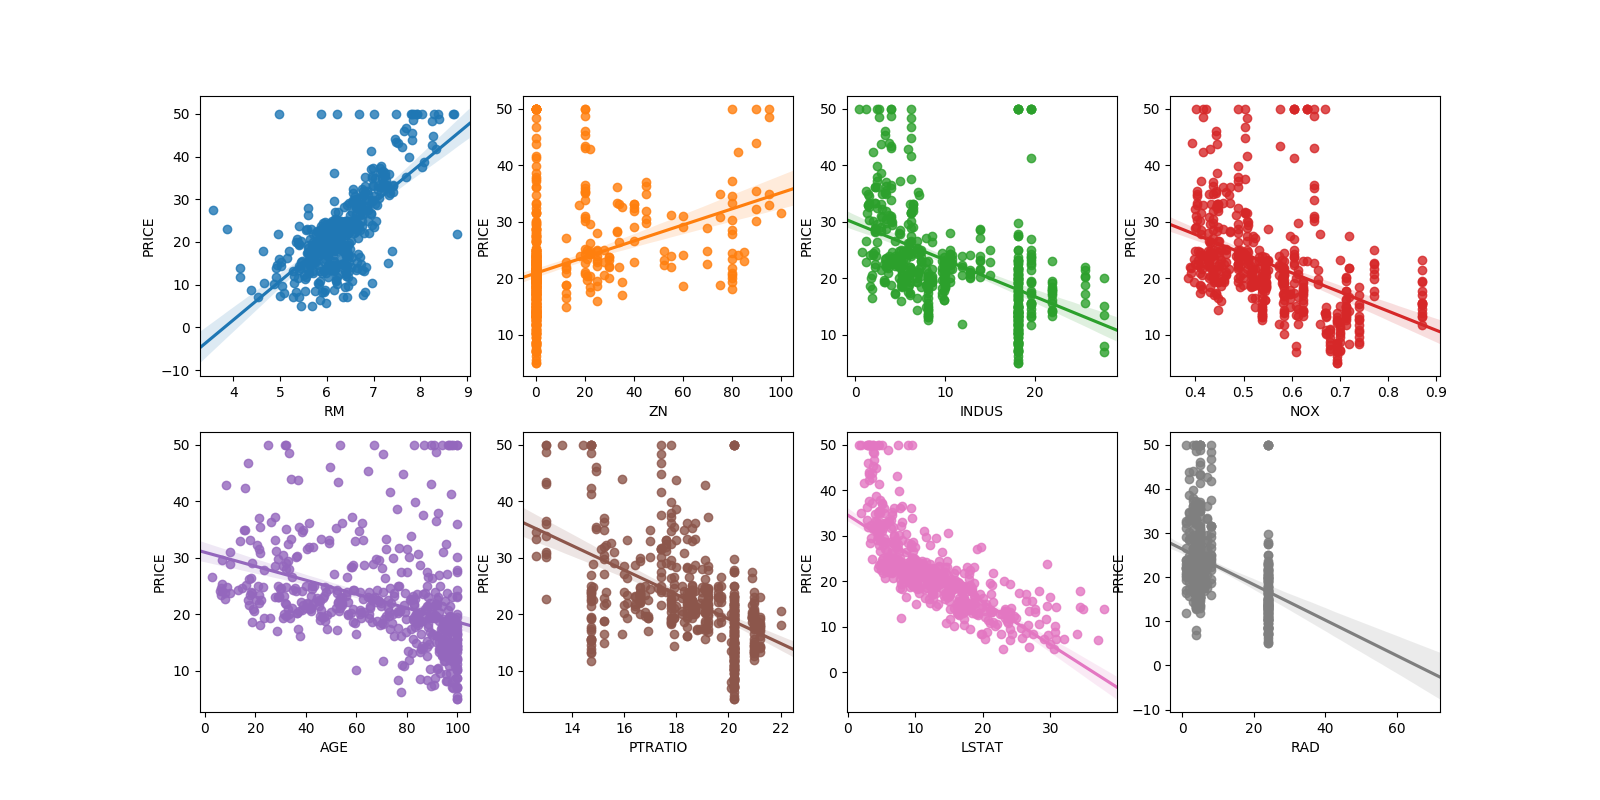
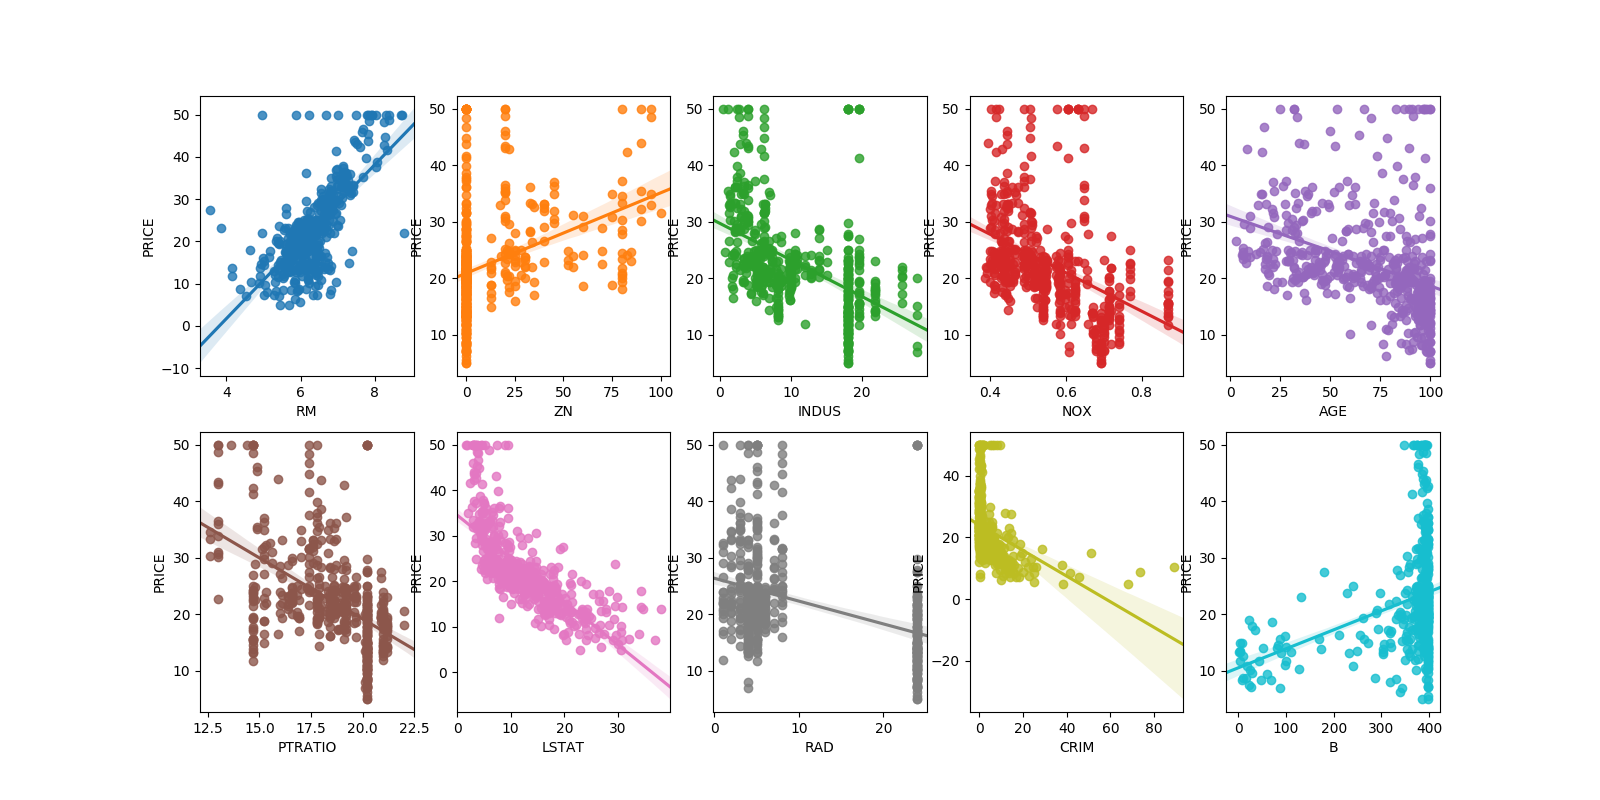
boston house price prediction raw code

diff --git a/raw_python_codes/Session2/BostonHousePricePrediction.py b/raw_python_codes/Session2/BostonHousePricePrediction.py
@@ -1,27 +1,13 @@
 """
-회귀는 여러 요인들과 특정 종속 변수 간의 관계를 예측하는 것으로써, 이를 통해 주가 예측 등 여러 예측 과제를 수행할 수 있습니다.
+Regression is basically a process which predicts the relationship between x and y based on features.
+This time we are going to practice Linear Regression with Boston House Price Data that are already embedded in scikit-learn datasets
 
-이번 시간에는 사이킷런 라이브러리에 내장되어 있는 데이터셋 중 하나인 Boston Data(보스턴 주택가격 예측을 위한 데이터)를 이용해 보겠습니다. 여러 변수들을 바탕으로 주택 가격(PRICE)을 예측하는 회귀 모델을 만들고 평가하여 봅시다.
+<Useful functions>
+sklearn.metrics.mean_squared_error: famous evaluation method (MSE)
 
-유용한 함수들
+np.sqrt(x): square root of tensor x
 
-sklearn.metrics.mean_squared_error: 두 값의 차의 제곱을 구합니다.
-
-np.sqrt(x): x의 제곱근을 구합니다.
-
-linear_model.coef_ : 선형모델의 상관계수를 출력합니다.
-
-코드 구성
-
-이번 예제의 코드는 함수의 형태로 구성되어 있습니다. 함수형 코드 구성은 입력을 받아 결과를 출력하는 형태의 함수들로 코드를 구성하고 전개하는 것을 말합니다.
-
-코드가 길어지거나 반복되는 경우, 함수의 형태로 코드를 구성하는 것이 효율성이나 가독성 면에서 더 적합하다고 할 수 있습니다.
-
-load_data(): 데이터를 불러옵니다.
-load_data_target(dataset): 데이터셋을 data와 target을 합하여 DataFrame을 만들고 반환합니다.
-plotting_graph(DataFrame): 데이터를 시각화한다.
-data2train_eval(DataFrame): 데이터를 Test와 Validation으로 나누어주는 함수를 만들어 봅니다.
-main(): 위의 함수들을 이용하여 선형회귀를 진행합니다. (전체 진행되는 과정을 main함수 안에서 확인할 수 있습니다.)
+linear_model.coef_ : get coefficient of the fitted linear model
 """
 import numpy as np
 import pandas as pd
@@ -33,75 +19,77 @@ from sklearn.linear_model import LinearRegression
 from sklearn.metrics import mean_squared_error
 
 
-def load_data():
-    return datasets.load_boston()
+BOSTON_DATA = datasets.load_boston()
+# print("raw data: ", boston_data)
 
 
-##데이터셋에 data과 target 합한 DataFrame을 반환하는 함수를 만들어 봅니다.
 def load_data_target(dataset):
-    ##데이터셋의 Data를 DataFrame으로 만들어 줍니다.
+    # TODO: make the raw dataset cleaner and easier to process -> use dataframe
     df = pd.DataFrame(dataset.data, columns=dataset.feature_names)
-    # 1.만들어준 DataFrame에 'PRICE'변수를 추가하고, target 데이터를 넣어준다.
+    # TODO: put the target data (price) to the dataframe we just made.
+    print("Before adding target: ", df.shape)
     df['PRICE'] = dataset.target
+    print("After adding target: {} \n {}\n".format(df.shape, df.head(2)))
     return df
 
 
-##데이터를 Seaborn을 이용하여 시각화한다.
-def plotting_graph(df):
-    # 2.Matplotlib.pyplot의 Subplots를 이용하여 2행 4열의[figsize=(16,8)] 그래프를 생성합니다.
-    fig, axs = plt.subplots(2, 4, figsize=(16, 8))
-    ##특징들의 이름을 설정합니다.
-    features = ['RM', 'ZN', 'INDUS', 'NOX', 'AGE', 'PTRATIO', 'LSTAT', 'RAD']
+"""
+10 features as default.
+Why didn't I put all the 13 features? Because n_row=2 and n_col=5 as default.
+It will create 10 graphs for each features.
+"""
+def plotting_graph(df, features, n_row=2, n_col=5):
+    fig, axes = plt.subplots(n_row, n_col, figsize=(16, 8))
 
-    ##Seaborn을 이용하여 특징들과 그 인덱스를 바탕으로 데이터를 시각화 합니다.
+    assert len(features) == n_row * n_col
+
+    # TODO: Draw a regression graph using seaborn's regplot
     for i, feature in enumerate(features):
-        row = int(i / 4)
-        col = i % 4
-        ##seaborn.replot을 이용하여 변수와 그에 따른 Regression 그래프를 그려줍니다.
-        sns.regplot(x=feature, y='PRICE', data=df, ax=axs[row][col])
+        row = int(i / n_col)
+        col = i % n_col
+        sns.regplot(x=feature, y='PRICE', data=df, ax=axes[row][col])
 
     fig.savefig("./Image_Output/BostonPrediction.png")
 
 
-##데이터를 train/validation 데이터로 나누어주는 함수를 만들어 봅니다.
-def data2train_eval(df):
+def split_dataframe(df):
     label_data = df['PRICE']
-    input_data = df.drop(['PRICE'], axis=1, inplace=False)
+    # others without PRICE
+    # axis!! --> Whether to drop labels from the index (0 or ‘index’) or columns (1 or ‘columns’).
+    input_data = df.drop(['PRICE'], axis=1)
 
+    # TODO: split! Set random_state if you want consistently same result
     input_train, input_eval, label_train, label_eval = train_test_split(input_data, label_data, test_size=0.3,
-                                                                        random_state=432)
+                                                                        random_state=42)
 
     return input_train, input_eval, label_train, label_eval
 
 
-##정의된 함수를 바탕으로 데이터를 분리하고 회귀(Regression)를 진행합니다.
 def main():
-    ## 데이터를 불러옵니다.
-    df = load_data()
-    ## 불러온 데이터를 DataFrame으로 추가시켜 줍니다.
-    df_data_target = load_data_target(df)
-    ## (Seaborn)그래프를 띄워서 변수 별로 대략적인 Regression이 어떻게 되는지 확인하여 봅니다.
-    plotting_graph(df_data_target)
+    df_data_target = load_data_target(BOSTON_DATA)
+    features = ['RM', 'ZN', 'INDUS', 'NOX', 'AGE', 'PTRATIO', 'LSTAT', 'RAD', 'CRIM', 'B']
+    plotting_graph(df_data_target, features, n_row=2, n_col=5)
 
-    input_train, input_eval, label_train, label_eval = data2train_eval(df_data_target)
+    input_train, input_eval, label_train, label_eval = split_dataframe(df_data_target)
 
-    ## 회귀모델을 생성합니다.
-    linear_model = LinearRegression()
-    # 3.학습 데이터를 바탕으로 학습을 진행합니다.
-    linear_model.fit(input_train, label_train)
-    # 4.검증 데이터를 바탕으로 값을 예측합니다.
-    pred = linear_model.predict(input_eval)
-    # 5.검증 데이터의 제곱 평균 오차(mean squared error)를 계산합니다.
+    # TODO: Load your machine learning model
+    model = LinearRegression()
+    # TODO: Train!
+    model.fit(input_train, label_train)
+    # TODO: make prediction with unseen data!
+    pred = model.predict(input_eval)
+    # TODO: what is mse between the answer and your prediction?
     mse = mean_squared_error(label_eval, pred)
-    ## 검증 데이터의 루트 제곱 평균 오차(rooted mean squared error)를 계산합니다.
+    # TODO: RMSE
     rmse = np.sqrt(mse)
 
     print('MSE: {0:.3f}, RMSE: {1:.3F}'.format(mse, rmse))
-    # LinearRegression 모델의 상관계수를 구하고 출력합니다.
-    print('회귀 계수값:', np.round(linear_model.coef_, 1))
-    # 구한 상관계수를 큰 순서대로 출력합니다.
-    coeff = pd.Series(data=np.round(linear_model.coef_, 1), index=input_train.columns)
-    print(coeff.sort_values(ascending=False))
+    # Regression Coefficient
+    print('Regression Coefficients:', np.round(model.coef_, 1))
+    # sort from the biggest
+    coeff = pd.Series(data=model.coef_, index=input_train.columns).sort_values(ascending=False)
+    print(coeff)
 
 
-main()
+if __name__ == "__main__":
+    main()

diff --git a/raw_python_codes/Session2/sklearn02_train_test_split.py b/raw_python_codes/Session2/sklearn02_train_test_split.py
@@ -53,12 +53,12 @@ train_test_split(arrays, test_size, train_size, random_state, shuffle, stratify)
 arrays : x and y data
 test_size : Ratio of Test data (default = 0.25)
 train_size : Ratio of Train data (default = 1 - 0.25)
-random_state : seed value for shuffle
+random_state : seed value for shuffle. It is used to seed a new RandomState object. This is to check and validate the data when running the code multiple times.
 shuffle : shuffle or not? (default = True)
 stratify : will discuss later on (default = None)
 """
 
-X_train, X_test, Y_train, Y_test = train_test_split(iris.data, iris.target, test_size=0.25, random_state=0, shuffle=True)
+X_train, X_test, Y_train, Y_test = train_test_split(iris.data, iris.target, test_size=0.25, random_state=42, shuffle=True)
 
 # TODO: Train your model with your 'train data' not the whole data
 clf.fit(X_train, Y_train)
